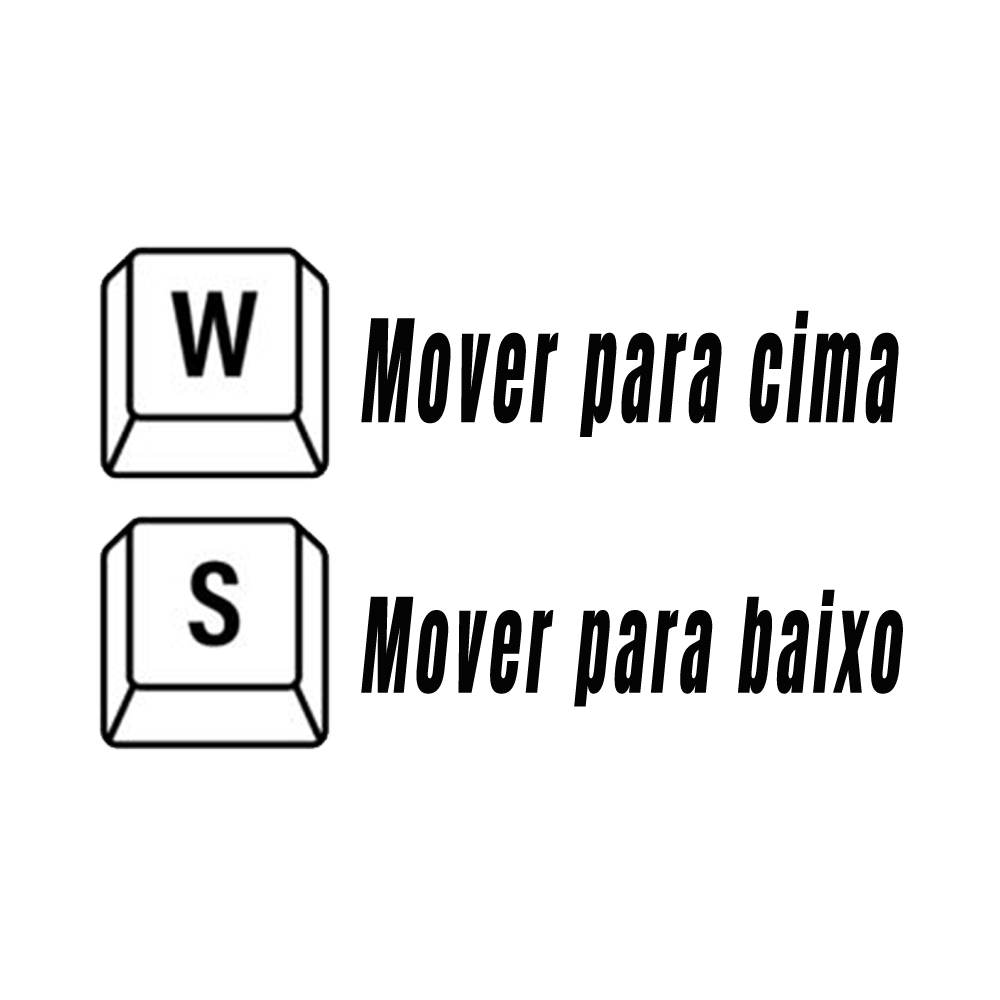
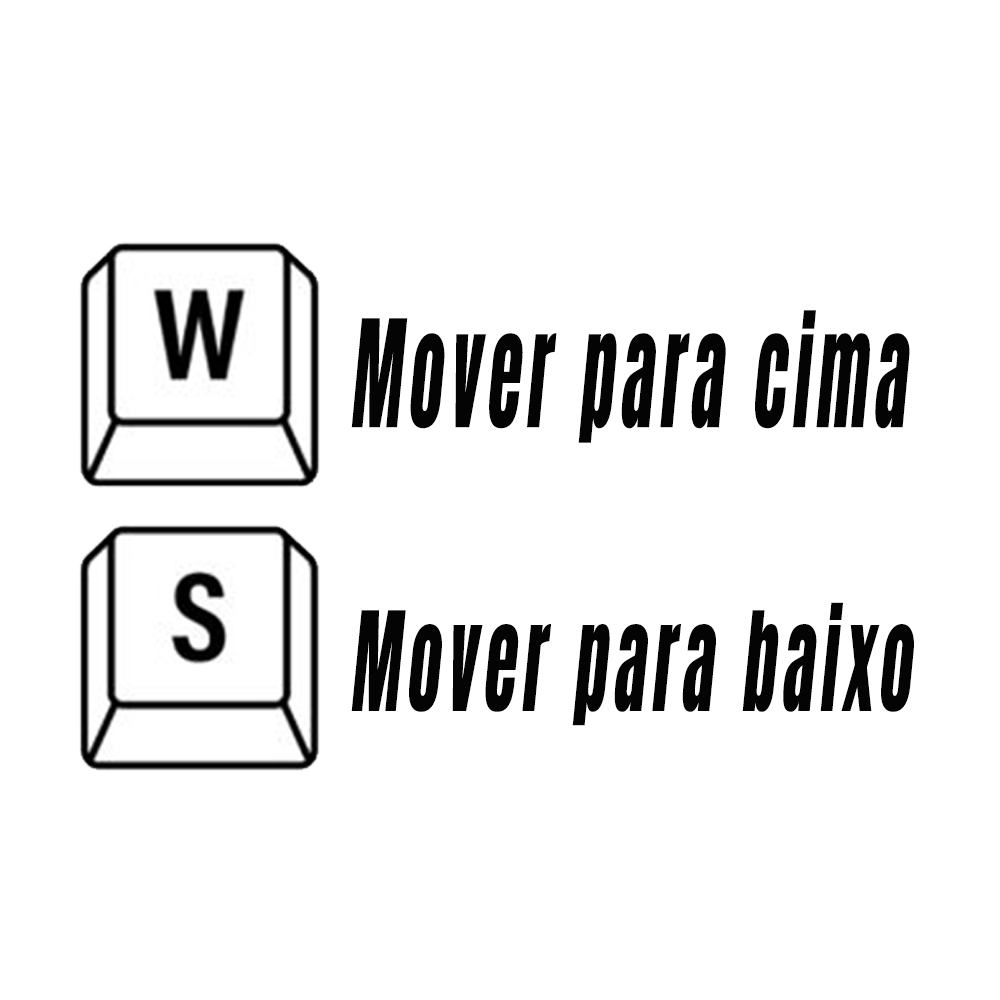
Alterando imagem

Changed region(s): [[0.062, 0.217, 0.93, 0.775], [0.589, 0.31, 0.93, 0.434]]

diff --git a/README.md b/README.md
@@ -4,8 +4,7 @@
 
 <p>O jogador(personagem) deve completar o jogo desviando de obstáculos que vão surgindo na tela. Se ele colidir com algum obstáculo, ele irá ficar parado e o tubarão chegará cada vez mais próximo, se  o tubarão chegar no personagem, derrota, mas se o jogador conseguir fugir, vitória.</p>
 
-## Controles
-<img src='img/comando.png' />
+<img src='img/comando.png' width='500px' height='500px' />
 
 ## HTML
 <img src='img/html.jpg' />
